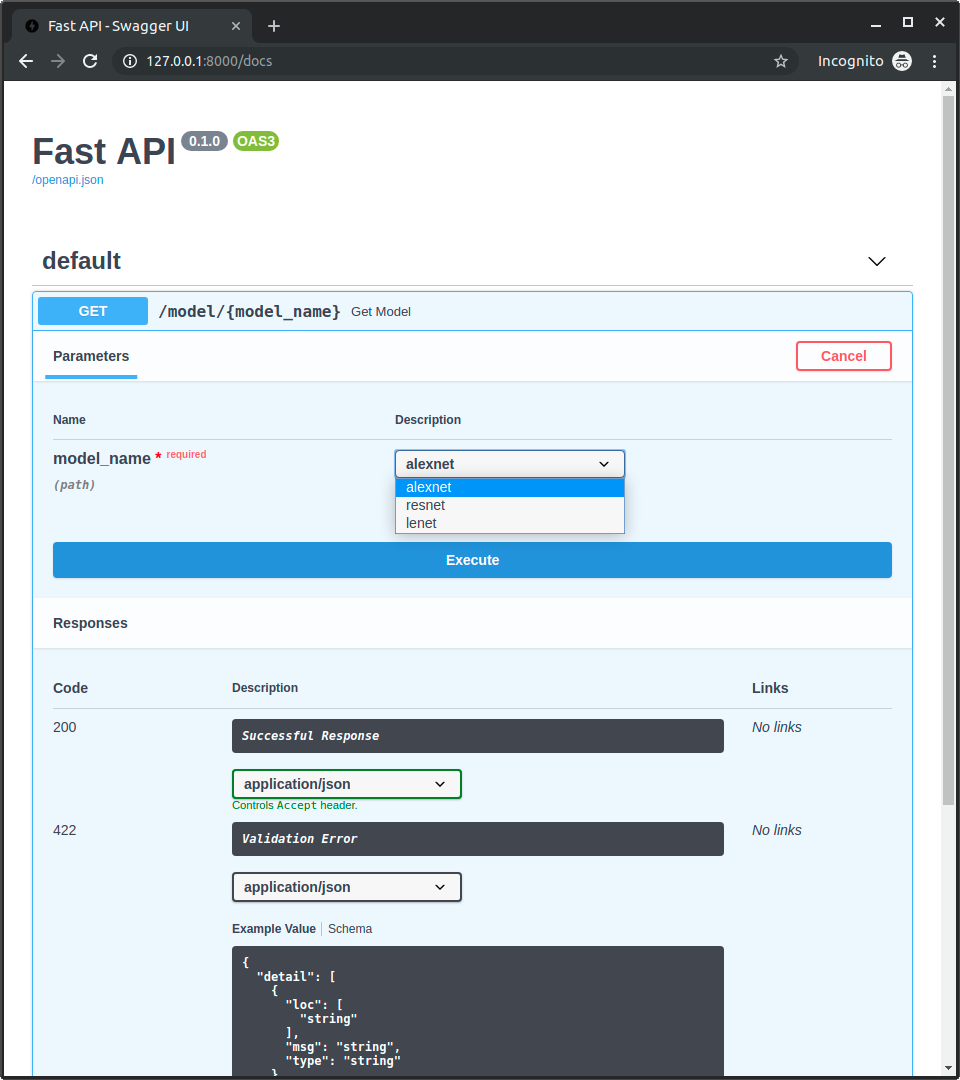
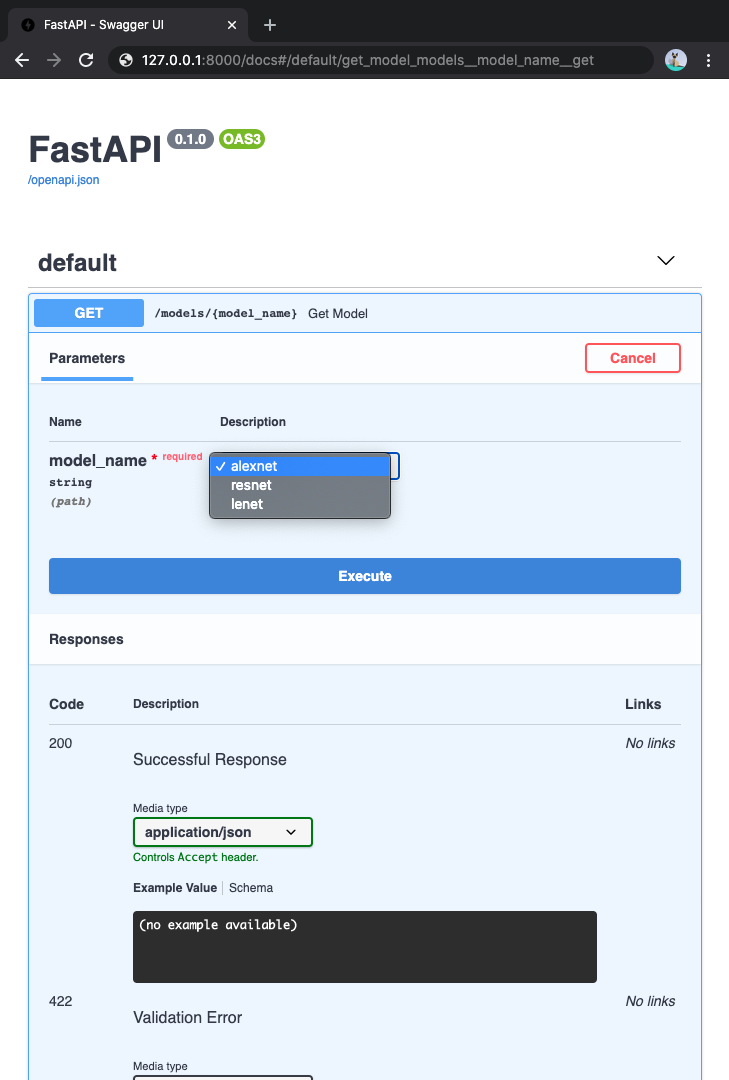
📝 Fix code consistency in examples for Tutorial - User Guide - Path Parameters (#2158)

Changed region(s): [[0.0, 0.0, 1.0, 1.0], [0.7846, 0.6111, 0.8148, 0.7028], [0.7846, 0.7639, 0.845, 0.7944]]

diff --git a/tests/test_tutorial/test_path_params/test_tutorial005.py b/tests/test_tutorial/test_path_params/test_tutorial005.py
@@ -9,7 +9,7 @@ openapi_schema = {
     "openapi": "3.0.2",
     "info": {"title": "FastAPI", "version": "0.1.0"},
     "paths": {
-        "/model/{model_name}": {
+        "/models/{model_name}": {
             "get": {
                 "responses": {
                     "200": {
@@ -28,7 +28,7 @@ openapi_schema = {
                     },
                 },
                 "summary": "Get Model",
-                "operationId": "get_model_model__model_name__get",
+                "operationId": "get_model_models__model_name__get",
                 "parameters": [
                     {
                         "required": True,
@@ -80,10 +80,10 @@ openapi_schema2 = {
     "openapi": "3.0.2",
     "info": {"title": "FastAPI", "version": "0.1.0"},
     "paths": {
-        "/model/{model_name}": {
+        "/models/{model_name}": {
             "get": {
                 "summary": "Get Model",
-                "operationId": "get_model_model__model_name__get",
+                "operationId": "get_model_models__model_name__get",
                 "parameters": [
                     {
                         "required": True,
@@ -160,22 +160,22 @@ def test_openapi():
     "url,status_code,expected",
     [
         (
-            "/model/alexnet",
+            "/models/alexnet",
             200,
             {"model_name": "alexnet", "message": "Deep Learning FTW!"},
         ),
         (
-            "/model/lenet",
+            "/models/lenet",
             200,
             {"model_name": "lenet", "message": "LeCNN all the images"},
         ),
         (
-            "/model/resnet",
+            "/models/resnet",
             200,
             {"model_name": "resnet", "message": "Have some residuals"},
         ),
         (
-            "/model/foo",
+            "/models/foo",
             422,
             {
                 "detail": [

diff --git a/docs_src/path_params/tutorial005.py b/docs_src/path_params/tutorial005.py
@@ -12,7 +12,7 @@ class ModelName(str, Enum):
 app = FastAPI()
 
 
[email redacted]("/model/{model_name}")
[email redacted]("/models/{model_name}")
 async def get_model(model_name: ModelName):
     if model_name == ModelName.alexnet:
         return {"model_name": model_name, "message": "Deep Learning FTW!"}